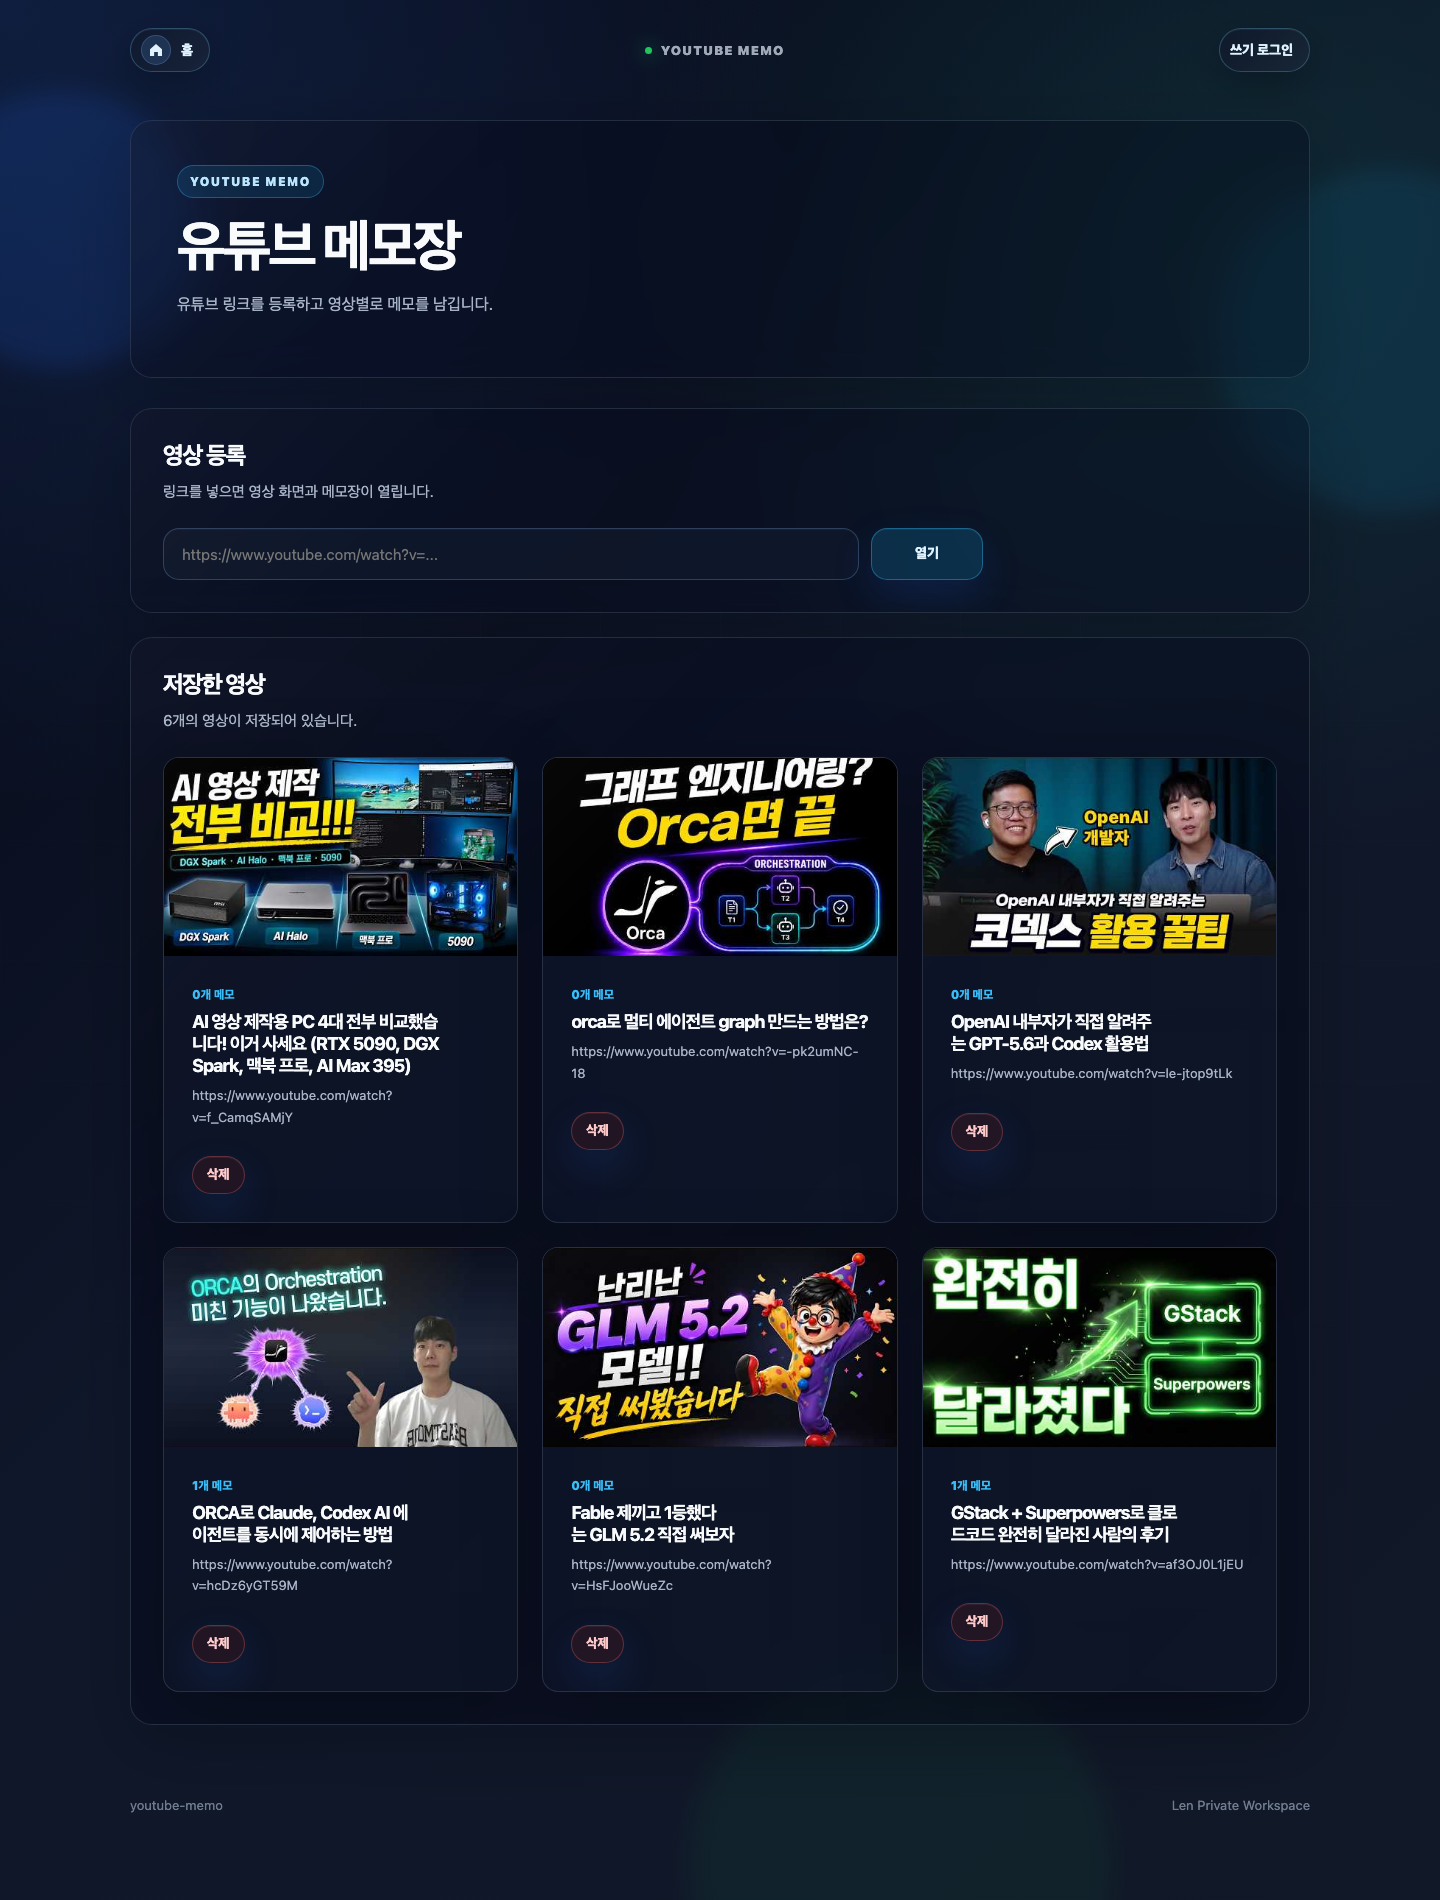
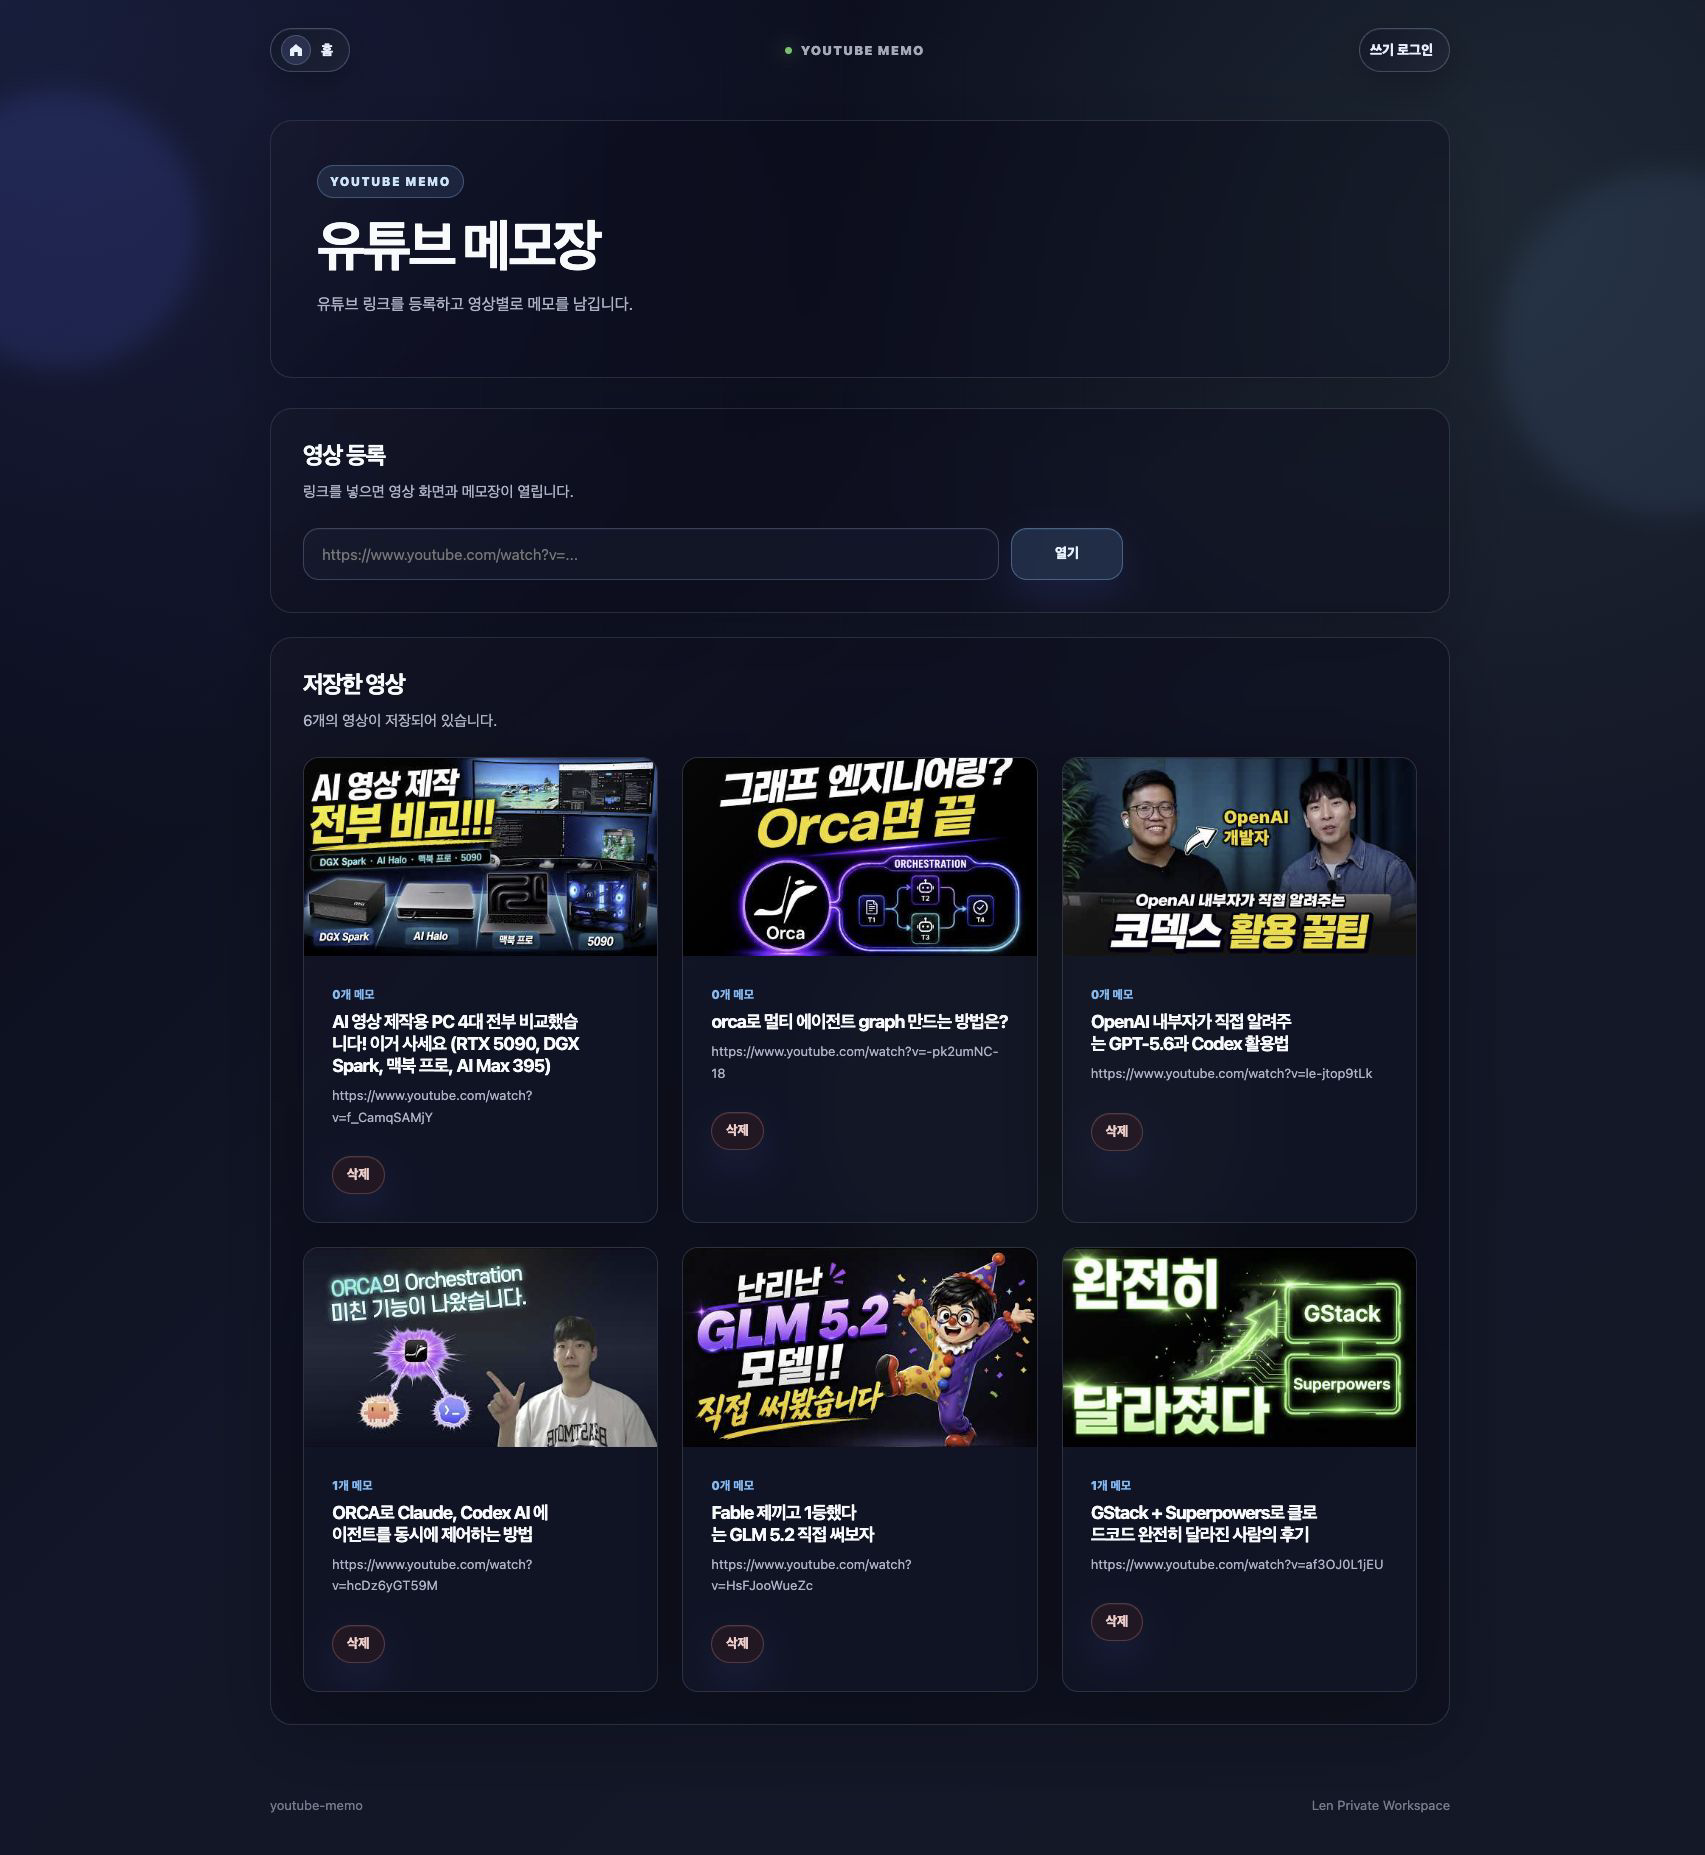
docs: 실제 서비스 화면 7개 재촬영 및 README 반영 (#248)
* docs: 공개 서비스 화면 5개 재촬영 및 촬영 기준 갱신

* docs: 관리자 자동복구와 운영 현황 화면 재촬영

* docs: N100 Grafana 실제 대시보드 재촬영

* docs: Grafana 미수집 지표 제한 확인 결과 기록

diff --git a/docs/images/README.md b/docs/images/README.md
@@ -6,37 +6,40 @@
 |---|---|---|
 | 확인일 | 2026-09-21 | |
 | 대상 | PNG 스크린샷 8개, SVG 구조도 1개 | Git 추적 이미지 전체 |
-| 기준 자료 | 이미지 원본·현재 템플릿·배포 검증 결과 | 촬영 일시는 별도 원본이 없어 확정하지 않음 |
+| 기준 자료 | 이미지 원본·현재 템플릿·배포 검증 결과 | 공개 웹 화면 5개·관리자·Grafana는 2026-09-21 재촬영 |
 
 ## 핵심 요약
 
-이미지 파일 누락·PNG 데이터 손상은 발견되지 않음. 스크린샷은 기능 소개용 과거 예시이며 최신 운영 상태를 증명하지 않음. 구조도는 현재 공개 경로와 실행 주체를 설명하며, upstream을 조회하는 주체를 배포 스크립트로 보완함.
+이미지 파일 누락·PNG 데이터 손상은 발견되지 않음. 공개 웹 화면 5개를 실제 Chrome에서 재촬영함. 관리자도 로그인 후 자동복구·HomeOps·보안 정책 구간을 재촬영함. Grafana도 N100 원격화면에서 재촬영함. 차량 Telegram은 과거 예시를 유지함. 새 화면도 촬영 이후의 상태나 배포 버전을 증명하지 않음. 구조도는 현재 공개 경로와 실행 주체를 설명하며, upstream을 조회하는 주체를 배포 스크립트로 보완함.
 
 ## 전체 이미지 상세
 
 | 이미지 | 용도·검토 결과 | 최신 반영 판단 | 비고 |
 |---|---|---|---|
-| [Portal](portal-dashboard.png) | 서비스 카드·전체 검색 예시, 글자와 주요 영역 확인 | 현재 템플릿과 촬영본의 완전 일치는 확인 필요 | 메인 README 미참조, 이 목록에서 보존 참조 |
-| [뉴스](news-hub.png) | 수집 결과·기사 목록 예시 | 현재 코드의 마지막 정상 수집·실패 횟수 표시가 없어 재촬영 필요 | 이미지에 2026-09-10 기사 시각이 표시됨 |
-| [파일함](file-manager.png) | 파일 목록·업로드·검색·정렬 예시 | 동시 업로드 보호 변경은 화면만으로 검증할 수 없음 | 저장된 파일명·개수는 현재 상태 아님 |
-| [Book](book-memo.png) | 책장·목차·코멘트 예시 | 7차 GET 무변경·다른 책 목차 거부는 화면으로 판별 불가 | 배포·회귀 증적을 기준으로 함 |
-| [YouTube](youtube-memo.png) | 영상 등록·저장 목록 예시 | 촬영 이후 목록 변경 여부는 확인 필요 | 링크 등록으로 운영 데이터를 추가하지 않음 |
-| [관리자](admin-status.png) | 자원·HomeOps·보안 상태 예시 | 과거 Compose 목록과 업로드 제한 표시가 현재 코드와 달라 재촬영 필요 | 화면 표시일 2026-09-10, 현재 이미지·허용 서비스 증거로 사용하지 않음 |
+| [Portal](portal-dashboard.png) | 서비스 카드·전체 검색 | 2026-09-21 실제 서비스 전체 페이지 촬영 | 메인 README 미참조, 이 목록에서 확인 |
+| [뉴스](news-hub.png) | 수집 최신성·세계 경제·IT·AI 주제 선택 | 2026-09-21 재촬영, 최근 성공 시각과 정상 표시 확인 | 실제 화면 표시값 보존 |
+| [파일함](file-manager.png) | 파일 목록·업로드·검색·정렬 | 2026-09-21 실제 목록 화면 촬영 | 파일 열기·다운로드·업로드·삭제 미수행 |
+| [Book](book-memo.png) | 책장·진행률·목차 진입점 | 2026-09-21 실제 책장 전체 촬영 | 목차를 화면에서 접음, 저장·삭제 미수행 |
+| [YouTube](youtube-memo.png) | 영상 등록·저장 목록 | 2026-09-21 실제 서비스 전체 페이지 촬영 | 영상 등록·메모 저장·삭제 미수행 |
+| [관리자](admin-status.png) | 서버 상태·자동복구 이력 10건·HomeOps·보안 정책 | 2026-09-21 실제 화면 1705×2525 촬영 | IP가 표시된 하단 보안 이벤트 목록 제외, 진단·재시작 버튼 미실행 |
 | [차량 Telegram](car-care-telegram-status.png) | 차량 상태·운행 알림 예시 | 9차 중복 처리 방지는 정적 이미지로 검증할 수 없음 | 메시지·계기 값은 과거 예시 |
-| [Grafana](grafana-k3s-overview.png) | 클러스터 자원 대시보드 예시 | No data와 과거 Pod 수가 있어 최신 화면 재촬영 필요 | HTTP 전용 대시보드·현재 지표 정상 증거가 아님 |
+| [Grafana](grafana-k3s-overview.png) | Kubernetes / Compute Resources / Cluster 상단·CPU·메모리 그래프 | 2026-09-21 N100 원격화면 1360×812 촬영 | 사용률 패널 2개 No data 유지, 주소창·개인 북마크 제외, 전체 페이지 아님 |
 | [운영 구조도](personal-server-architecture-v2.svg) | Tunnel → Caddy → K3s, 서비스별 PVC, Compose 보조 구성 | 코드·현재 운영 참조와 대조함 | 배포 스크립트의 upstream 조회 역할을 보완함 |
 
 ## 검토 결과
 
 - PNG 8개를 직접 열어 확인하고 전체 chunk CRC·압축 데이터 해제를 검증함.
 - SVG는 XML 구조·참조를 점검하고 렌더링 결과를 확인함.
-- 실제 스크린샷 픽셀·수치·알림 내용을 합성하거나 고치지 않음. PNG 원본은 유지함.
+- 재촬영한 7개 화면은 브라우저가 반환한 JPEG 원본을 PNG 형식으로 변환해 기존 경로에 저장함. 페이지 내용·수치·픽셀 합성·보정은 수행하지 않음. 이전 이미지는 Git 이력에 보존됨.
+- 재촬영 파일 7개를 직접 열어 배치·가독성을 확인함. 문서 색인 27건과 `git diff --check`를 통과함. 재촬영 PNG 7개의 형식·CRC·압축 데이터 해제를 검증함.
 - 최신 코드 반영과 운영 이미지 적용은 [배포 검증 결과](../reviews/20260921_K3s앱배포_검증결과.md)를 사용함.
 
 ## 확인 필요 사항
 
-현재 화면을 소개할 목적으로 게시하려면 뉴스·관리자·Grafana를 우선 재촬영 필요함. 인증된 관리자·Grafana 화면은 비밀값·개인 정보 노출 여부를 확인한 실제 화면만 사용하며, 테스트 통과나 이미지를 근거로 현재 운영 수치를 만들어 넣지 않음.
+관리자 재촬영은 완료함. 화면의 파일함 0개·과거 HomeOps 결과·업로드 제한 25MB는 실제 표시를 그대로 보존했으며, 표시 내용과 실제 운영 구성의 정합성은 별도 확인 필요함. Grafana Explore에서 node_cpu_seconds_total·node_memory_MemTotal_bytes가 모두 No data라는 사용자 확인을 받음. 저장소의 WSL2용 node-exporter 비활성화 설정과 일치하며, 해당 지표를 전제로 한 사용률 패널의 제한으로 기록함. 네임스페이스별 그래프가 표시된 사실만으로 모든 지표의 정상을 확정하지 않음. 차량 Telegram은 기존 이미지를 유지하며 이번 웹 촬영에 포함하지 않음. 인증된 관리자·Grafana 화면은 비밀값·개인 정보 노출 여부를 확인한 실제 화면만 사용하며, 테스트 통과나 이미지를 근거로 현재 운영 수치를 만들어 넣지 않음.
 
 ## 후속 조치
 
-README는 기존 화면을 촬영 예시로 명시함. 새 화면 확보 시 해당 PNG와 이 목록의 검토 결과를 함께 갱신함. 문서 변경만으로 운영 서비스나 공개 포트폴리오 저장 데이터가 자동 갱신되는 것은 아님.
+README는 재촬영 7개와 기존 화면 1개를 구분함. 관리자 표시 정합성은 별도 점검 대상으로 남김. 사용자는 Grafana 패널 수정 대신 기존 촬영본과 지표 제한을 문서에 기록하는 방향으로 진행함. 기능 영향 없는 문서·이미지 교체로 주 담당 1명이 수행함. 문서 변경만으로 운영 서비스나 공개 포트폴리오 저장 데이터가 자동 갱신되는 것은 아님.
+
+관리자 추가 촬영 검증: 상단부터 보안 정책까지 시각 확인했으며 내부 IP를 포함한 로그 목록은 저장하지 않음. 이미지 생성·합성·운영 수치 보정은 수행하지 않음. 전체 페이지 대신 사용자가 허용한 주요 구간을 촬영함.
